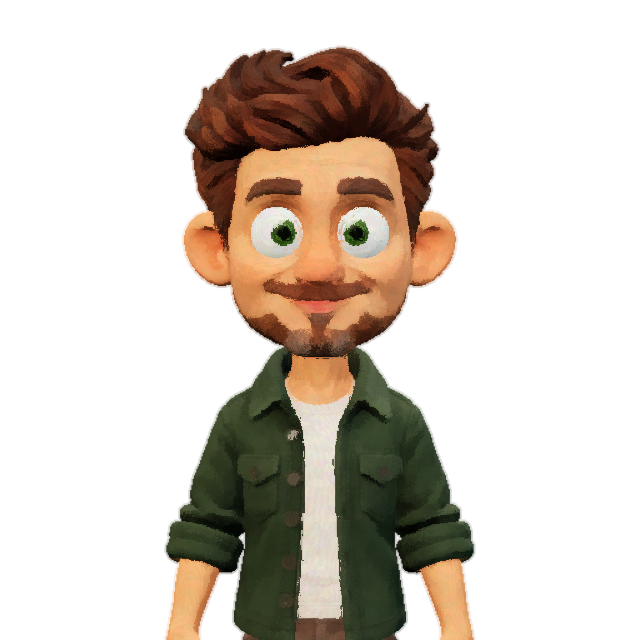
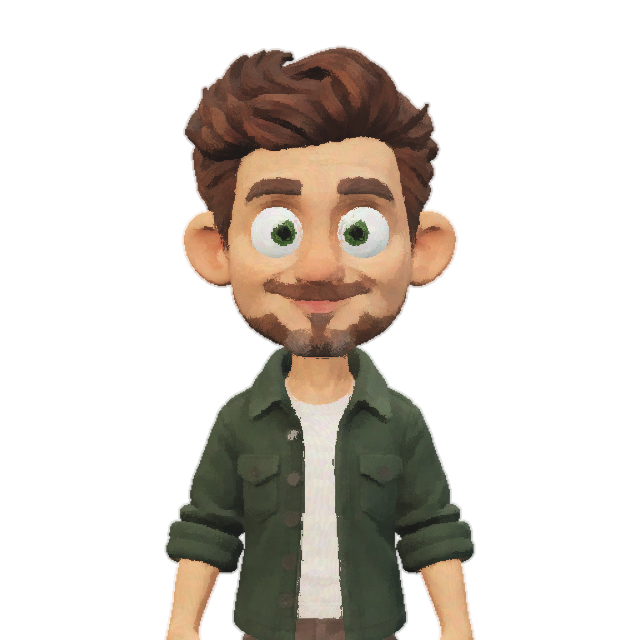
Soften Prism character colors toward the previous pastel palette

diff --git a/painterly.js b/painterly.js
@@ -6,7 +6,7 @@ import * as THREE from 'three';
 // Use with a transparent scene background, ACESFilmicToneMapping and sRGB output,
 // matching the approved site's color pipeline. Strength 1 preserves that pass;
 // the .65 default retains more of the repaired feature detail for this review.
-export function createPainterlyPass(renderer, scene, camera, {strength = .65, brushScale = 1} = {}) {
+export function createPainterlyPass(renderer, scene, camera, {strength = .65, brushScale = 1, saturation = 1, shadowLift = 0} = {}) {
   const clampStrength = value => THREE.MathUtils.clamp(Number.isFinite(value) ? value : .65, 0, 1);
   // Float attachments are optional even with WebGL 2. Keep the live model
   // visible on GPUs without them instead of sampling an incomplete framebuffer.
@@ -45,7 +45,7 @@ export function createPainterlyPass(renderer, scene, camera, {strength = .65, br
       }`,
     toneMapped:false
   });
-  const uniforms={tColor:{value:color.texture},tPosition:{value:position.texture},resolution:{value:new THREE.Vector2(1,1)},exposure:{value:renderer.toneMappingExposure},paintStrength:{value:clampStrength(strength)},brushScale:{value:THREE.MathUtils.clamp(brushScale, .5, 2)}};
+  const uniforms={tColor:{value:color.texture},tPosition:{value:position.texture},resolution:{value:new THREE.Vector2(1,1)},exposure:{value:renderer.toneMappingExposure},paintStrength:{value:clampStrength(strength)},brushScale:{value:THREE.MathUtils.clamp(brushScale, .5, 2)},saturation:{value:THREE.MathUtils.clamp(saturation,0,1.5)},shadowLift:{value:THREE.MathUtils.clamp(shadowLift,0,.3)}};
   const material = new THREE.ShaderMaterial({
     uniforms,depthTest:false,depthWrite:false,transparent:true,premultipliedAlpha:true,toneMapped:false,
     vertexShader:`varying vec2 vUv;void main(){vUv=uv;gl_Position=vec4(position.xy,0.,1.);}`,
@@ -56,6 +56,8 @@ export function createPainterlyPass(renderer, scene, camera, {strength = .65, br
       uniform float exposure;
       uniform float paintStrength;
       uniform float brushScale;
+      uniform float saturation;
+      uniform float shadowLift;
       varying vec2 vUv;
       vec3 hash3(vec3 p){return fract(sin(vec3(dot(p,vec3(127.1,311.7,74.7)),dot(p,vec3(269.5,183.3,246.1)),dot(p,vec3(113.5,271.9,124.6))))*43758.5453);}
       vec3 displayColor(vec3 c){
@@ -64,7 +66,12 @@ export function createPainterlyPass(renderer, scene, camera, {strength = .65, br
         c=inputMat*(c*exposure/.6);
         c=(c*(c+.0245786)-.000090537)/(c*(.983729*c+.432951)+.238081);
         c=clamp(outputMat*c,0.,1.);
-        return mix(12.92*c,1.055*pow(c,vec3(1./2.4))-.055,step(vec3(.0031308),c));
+        c=mix(12.92*c,1.055*pow(c,vec3(1./2.4))-.055,step(vec3(.0031308),c));
+        // The shaded source already contains strong color and dark shadows.
+        // Keep the paint detail while bringing its palette toward the prior model.
+        float neutral=dot(c,vec3(.2126,.7152,.0722));
+        c=mix(vec3(neutral),c,saturation);
+        return mix(c,vec3(.98,.975,.95),shadowLift*(1.-neutral));
       }
       vec4 samplePaint(vec2 uv){vec4 c=textureLod(tColor,uv,0.);return vec4(displayColor(c.rgb),c.a);}
       float lum(vec3 c){return dot(c,vec3(.299,.587,.114));}

diff --git a/character.js b/character.js
@@ -103,7 +103,7 @@ export async function createCharacter(container, { paused = false } = {}) {
       upperLeft:lidControl(find('UpperLid_L')), upperRight:lidControl(find('UpperLid_R')),
       lowerLeft:lidControl(find('LowerLid_L')), lowerRight:lidControl(find('LowerLid_R')),
     };
-    painterly = createPainterlyPass(renderer, scene, camera, { strength:1, brushScale:1.4 });
+    painterly = createPainterlyPass(renderer, scene, camera, { strength:1, brushScale:1.4, saturation:.78, shadowLift:.10 });
   } catch (error) { releaseScene(); throw error; }
   container.append(renderer.domElement);
   container.dataset.model = 'prism-v2-approved';

diff --git a/README.md b/README.md
@@ -15,7 +15,7 @@ Run `npm run check` to check JavaScript syntax and `npm run build` to prepare `d
 The header uses `assets/potion-3d.webp`, a transparent two-second render of the Blender potion concept. A responsive picture source selects `assets/potion-3d-still.webp` when reduced motion is preferred. `assets/potion-still.svg` retains Kyle's original artwork for the favicon. The editable scene remains in `assets/3d model/potion-concept/`; the header animation needs no WebGL or extra JavaScript. Edit source assets rather than `dist/`, which is regenerated by the build.
 
 - `assets/models/kyle-prism-v2-web.glb` is the approximately 23 MB browser copy, with a simplified body and 2048px main texture. The full-resolution rigged GLB, Blender source, and review files remain under `assets/3d model/prism-v2-cleanup/`. The earlier site model is preserved for rollback but is no longer loaded or copied into fresh builds.
-- `painterly.js` uses the approved review's object-position-anchored brush cells across the whole character, including moving eyes and eyelids. Paint strength is 1.0 and brush scale is 1.4. The separate Blender compositor remains in the authoring source; GLB does not contain compositor effects.
+- `painterly.js` uses the approved review's object-position-anchored brush cells across the whole character, including moving eyes and eyelids. Paint strength is 1.0 and brush scale is 1.4. A softer color grade uses saturation 0.78 and shadow lift 0.10 to bring the shaded source toward the prior model's pastel palette. This is a reversible render treatment; the original texture stays intact. The separate Blender compositor remains in the authoring source; GLB does not contain compositor effects.
 - `character.js` preserves the exported `Root`, `Head`, `Quiff`, `Brow_L` and `Brow_R` bones. `character-motion.js` makes the eyes lead, with the head following 110 ms later. Eyelids close in 3–5 reference frames at 30 fps, briefly hold, and reopen in 2–4 frames. Blink intervals vary, with occasional double blinks; the lower lid and brows follow slightly later. `BlinkArc = 4*t*(1-t)` keeps the moving lids outside the spherical eyeballs.
 - Head turns are limited to about 13 degrees horizontally and 8 degrees vertically. Eye movement adds a smaller turn. “Say hi” gives a short nod on hover, keyboard focus, or click and takes visitors to the contact form. The link works independently of the 3D model and motion preference.
 - The exported quiff bone uses the damped spring in `character-motion.js`, lagging behind head turns, greeting nods, and mobile scroll gaze. Motion pauses offscreen and in hidden tabs; reduced-motion preferences keep a still portrait. `tests/character-motion.test.mjs` verifies timing, frame-rate independence, and safe motion limits.
